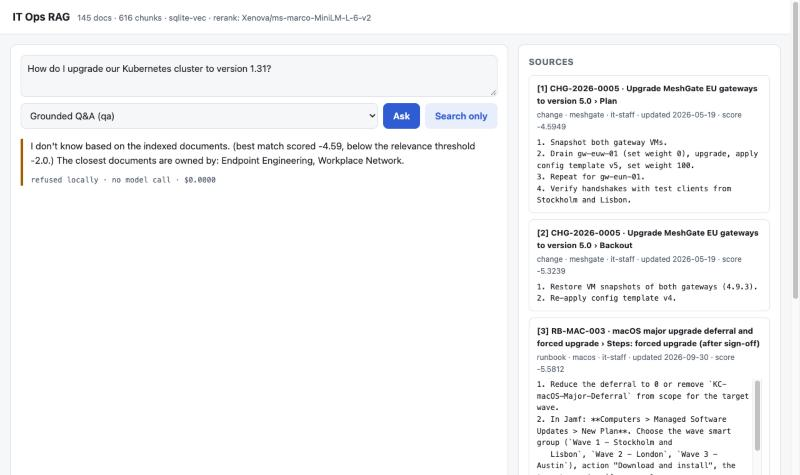
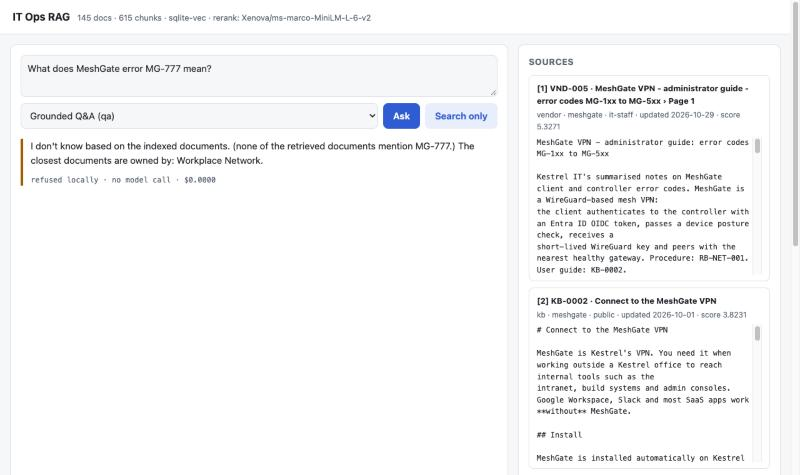
Docs: review write-up, new eval numbers, role trust, honest cost and caching notes; refreshed screenshots and GIF

diff --git a/README.md b/README.md
@@ -13,7 +13,7 @@ that finds error codes like `AADSTS53003` and `0x80180014`; local embeddings and
 > *Kestrel Cloud* (fictional people, tenants, hostnames, tickets and a fictional VPN called MeshGate). The engine is the
 > same one I run against real IT documentation; real-use configuration and live connectors live in a private repo.
 
-![Web UI: search over the demo corpus with redacted, access-tagged source chunks](docs/img/web-search.jpg)
+![Web UI: search for an Autopilot error code, showing redacted, access-tagged sources (a past ticket that matches exactly, then the runbook and vendor notes further down)](docs/img/web-search.jpg)
 
 ## What it is for
 
@@ -57,12 +57,13 @@ flowchart LR
 
     subgraph Query
         Q[Question + role] --> H[Hybrid search<br/>BM25 + vector → RRF]
-        H --> RR[Cross-encoder rerank<br/>ms-marco-MiniLM · local]
-        RR --> G{Refusal gate}
+        H --> RR[Cross-encoder rerank<br/>ms-marco-MiniLM · local<br/>+ doc-type prior, 1 hit per doc]
+        RR --> G{Refusal gate<br/>score + error-code check}
         G -- thin context --> IDK["I don't know"<br/>no API call]
-        G -- ok --> P[Prompt template<br/>+ fenced &lt;context&gt;]
+        G -- ok --> X[Small-to-big<br/>hit → section or whole doc<br/>~6k-token budget]
+        X --> P[Prompt template<br/>+ fenced &lt;context&gt;]
         P --> LLM[Claude<br/>Opus 5.5 / Haiku 5.5]
-        LLM --> V[Citation check<br/>+ optional faithfulness check]
+        LLM --> V[Citation check<br/>+ Haiku faithfulness check]
     end
 
     Sources --> L
@@ -93,11 +94,16 @@ itops-rag ask "Review this change" --prompt change_risk_review --input examples/
 itops-rag serve                                    # web UI on http://127.0.0.1:8080
 ```
 
+The web UI treats every caller as `public` unless your SSO proxy vouches for a higher role: set
+`ITOPS_RAG_ROLE_HEADER_SECRET`, and have the proxy send `X-ITOPS-Role` plus `X-ITOPS-Proxy-Secret` (and strip any
+copies the client sent). The CLI, library and MCP server use `ITOPS_RAG_DEFAULT_ROLE`.
+
 ![Terminal demo: ingest, search, a local refusal and the eval (recorded from real runs by scripts/make_demo_gif.py)](docs/img/demo.gif)
 
-When the index has nothing relevant, it says so without calling the model:
+When the index has nothing relevant, it says so without calling the model. Here the question names an error code
+that no document mentions:
 
-![Web UI: an out-of-scope question refused locally at no cost](docs/img/web-refusal.jpg)
+![Web UI: a question about an unknown error code refused locally at no cost](docs/img/web-refusal.jpg)
 
 Docker: `docker compose up --build`, then open http://localhost:8080. The image has the models baked in, so it runs
 offline.
@@ -105,7 +111,10 @@ offline.
 ## Use it from Claude Code (MCP)
 
 ```bash
-claude mcp add itops-rag -e ITOPS_RAG_INDEX_DIR="$PWD/.itops-rag/index" -- itops-rag-mcp
+claude mcp add itops-rag \
+  -e ITOPS_RAG_INDEX_DIR="$PWD/.itops-rag/index" \
+  -e ITOPS_RAG_MODEL_CACHE_DIR="$HOME/.cache/itops-rag-models" \
+  -- "$PWD/.venv/bin/itops-rag-mcp"
 ```
 
 | Tool | Cost | What it returns |
@@ -141,19 +150,34 @@ the data never is. Full example: [examples/library_usage.py](examples/library_us
 
 ## Retrieval quality
 
-Measured on the 44-question golden set ([eval/](eval/)), k = 4, with no API key. Reproduce with `itops-rag eval`.
+Measured offline (no API key) on the 65-question golden set ([eval/](eval/)): 54 answerable questions across all
+three roles, including 16 deliberately hard paraphrases, plus 11 that should be refused, 5 of them near-misses
+("Okta SAML rotation", "MG-777"). Each question is searched exactly the way `ask()` searches it (its prompt
+template's doc types and top-k), k = 4. **Primary** means the one document that should answer it (the runbook,
+KB article or standard), not just any related ticket. Reproduce with `itops-rag eval`.
 
-| Mode | hit@4 | recall@4 | MRR | Refusal accuracy | Access leaks |
-|---|---|---|---|---|---|
-| vector | 0.97 | 0.73 | 0.94 | – | 0 |
-| keyword (BM25) | 0.97 | 0.71 | 0.90 | – | 0 |
-| hybrid (RRF) | 1.00 | 0.77 | 0.94 | – | 0 |
-| **hybrid + rerank** | **1.00** | **0.77** | **0.96** | **1.00** | **0** |
+| Mode | hit@4 | MRR | primary hit@4 | primary MRR | recall@4 | ticket share | refusal accuracy | access leaks |
+|---|---|---|---|---|---|---|---|---|
+| vector | 0.94 | 0.84 | 0.93 | 0.77 | 0.69 | 0.17 | – | 0 |
+| keyword (BM25) | 0.96 | 0.80 | 0.89 | 0.72 | 0.70 | 0.18 | – | 0 |
+| hybrid (RRF) | 0.98 | 0.86 | 0.93 | 0.75 | 0.73 | 0.20 | – | 0 |
+| **hybrid + rerank** | **0.98** | **0.91** | **0.98** | **0.85** | **0.74** | **0.09** | **0.95** | **0** |
 
-Vector search alone misses an on-call checklist question and keyword search alone misses a paraphrased change
-question. Fusion catches both, and the reranker puts the right document first more often. recall@4 is capped
-because many questions have 5 to 9 relevant documents. A caveat: I wrote the golden set knowing the corpus, so read
-these as regression numbers, not a benchmark. CI fails if they drop (see `eval-gate` in the workflow).
+What moved the numbers (the [review](docs/review.md) has the experiments, including the ones that didn't help):
+
+- **Doc-type prior and one hit per document.** In this corpus 82 of 145 documents are tickets, and they used to
+  crowd runbooks out of the top 4. Adding +2 to the rerank score of authoritative doc types (for ordering only)
+  raised primary hit@4 from 0.93 to 0.98 and primary MRR from 0.80 to 0.85.
+- **Hybrid beats either half.** Vector search misses error-code questions and keyword search misses paraphrases.
+- **The free gate refuses 8 of 11 unanswerable questions**, including unknown error codes (the question names a code
+  no retrieved document mentions). The 3 near-misses it lets through score as high as real questions, so Claude's
+  own "I don't know" rule is the second line of defence.
+- **Kept as is, after measuring alternatives:** the embedding model (bge-small, arctic-embed, nomic and bge-base were
+  no better after reranking) and the reranker (bge-reranker-base was slower and worse; ms-marco-L12 was twice the
+  latency).
+
+Caveat: the questions were written knowing the corpus. Treat these as regression numbers, not a benchmark. CI fails
+if primary hit, MRR or refusal accuracy drop (see `eval-gate` in the workflow).
 
 ## Safety and cost controls
 
@@ -162,12 +186,14 @@ these as regression numbers, not a benchmark. CI fails if they drop (see `eval-g
 | Citations required | Every claim cites `[n]`. Citations are checked against the chunks actually supplied; uncited or invalid citations raise warnings. |
 | "I don't know" | If the best rerank score is below a threshold, it refuses **locally, with no API call**, and names the owning team of the nearest docs. |
 | Retrieved text is data | Chunks are fenced in `<context>`, tag-like text is neutralised, injection patterns are flagged `suspicious="true"`, and the system prompt says to ignore and report them. Tested with planted attacks in `data/demo/kestrel-cloud/adversarial/`. |
-| Redaction at ingest | API keys, tokens, JWTs, private keys, passwords, emails and phone numbers are masked before embedding (plus IPs in tickets). People fields are dropped from ticket exports. |
-| Access tags | `public` < `it-staff` < `security` per document, enforced inside both the keyword and the vector query. |
-| Cost | Embeddings, search, rerank and eval are local and free. Prompt caching, Haiku for cheap steps, a per-answer cost line, a JSONL cost ledger, and a monthly budget cap that blocks calls. |
+| Redaction at ingest | AWS, GitHub, Slack, Anthropic, Azure and Google keys, `sk-`/`pk-` keys, JWTs, Bearer/Basic auth headers, private keys (even truncated ones), `name = value` secrets (`DB_PASSWORD`, `aws_secret_access_key`, quoted values), emails and phone numbers are masked before embedding, plus IPs in tickets. People fields are dropped from ticket exports. A test ingests the adversarial fixtures and asserts that no planted secret survives. |
+| Access tags | `public` < `it-staff` < `security` per document, enforced inside both the keyword and the vector query. Documents with no tag default to `it-staff`, not `public`. The web UI is `public` unless a proxy-verified role header says otherwise. |
+| Cost | Embeddings, search, rerank, refusals and eval are local and free. Haiku 5.5 runs the cheap steps (triage, policy checks, the faithfulness check at about $0.0002), and every call is logged with its cost against a monthly budget cap that blocks calls. Unknown or fallback models are charged at the highest listed price, so the cap errs on the safe side. Prompt caching is wired but rarely pays here: the system prompt (~330 tokens) is under the 512-token minimum, and every question has different context. |
 | Model safety | Server-side fallbacks (`fallbacks: "default"`) are on for Opus, so a safety-classifier decline is retried in the same call. Turn it off with `ITOPS_RAG_SERVER_FALLBACKS=false`. |
 
-Known limit: regexes can't find personal names in free text. Loaders drop known people fields instead.
+Known limits: regexes can't find personal names in free text (loaders drop known people fields instead), and a
+determined attacker can phrase an injection the heuristics miss. The fencing and system rules still apply, but treat
+indexed content as untrusted.
 
 ## Repository layout
 
@@ -190,7 +216,7 @@ Known limit: regexes can't find personal names in free text. Loaders drop known 
 
 ```bash
 pip install -e ".[all]" --group dev
-pytest                       # 59 tests, offline
+pytest                       # 76 tests, offline
 ruff check . && ruff format --check . && mypy
 itops-rag eval --baseline eval/baseline.json
 ```

diff --git a/docs/review.md b/docs/review.md
@@ -1,0 +1,46 @@
+# Pre-release review (November 2026)
+
+Before the first public release, two reviewers who had not built the project went through it. One fact-checked the
+code and every claim in the docs. The other reviewed the retrieval architecture and measured alternatives. This page
+records what they found and what changed, including ideas that were tested and rejected.
+
+## Fact-check: bugs found and fixed
+
+| Finding | Severity | Fix |
+|---|---|---|
+| `ticket_triage` and `change_risk_review` searched only the short question ("Triage this"), so the pasted ticket or change plan never reached retrieval. The triage example was refused, and the change review retrieved unrelated docs. | Critical | Templates with pasted input now search on the input. Tested. |
+| One SQLite connection was shared across FastAPI worker threads. 148 of 3,000 concurrent searches failed. | Critical | Every index operation takes a lock, and lazy start-up in the web and MCP servers is locked too. A 600-search, 16-thread test now passes. |
+| Redaction missed `aws_secret_access_key = …` (because `_` counts as a word character), quoted values, Anthropic and Azure keys, Basic auth, unsigned JWTs, keys without an END line, and national phone numbers. The keep-list matched `security@` at any domain. | Critical | Patterns rewritten, keep-list anchored to the domain. A test ingests the adversarial fixtures and asserts no planted secret survives. |
+| The web UI trusted an `X-ITOPS-Role` header from any client. | Important | Requests default to `public`. The header is accepted only with a proxy shared secret, and is otherwise ignored or rejected with a 403. |
+| Files without an access tag became `public`. | Important | Fail closed: the default is `it-staff`, and it is configurable. |
+| `--prune` deleted documents from other folders in the same index, and documents whose file failed to load. | Important | Pruning is scoped to the ingested folder, and documents from failed files are kept. |
+| Changing chunk size or redaction patterns didn't re-chunk: documents were skipped as "unchanged". | Important | An ingest fingerprint (chunker, size, overlap, redaction version) is folded into each stored hash. |
+| The refusal gate without the reranker almost never refused. | Important | It now uses vector similarity only. |
+| "Prompt caching" was listed as a cost control, but the system prompt is below the 512-token minimum. | Claim | The claim is removed (see the cost row in the README). |
+| Fallback-served answers were priced at $0. | Important | Fallback models are priced, and unknown models are charged at the highest listed price. |
+| Smaller items: list settings from env crashed unless given as JSON, chunk overlap was dropped near the size limit, `[1-3]` citation ranges were ignored, the SDK pin was too low for `fallbacks`, and the `[web]` text in `--help` was swallowed by Rich markup. | Minor | All fixed. |
+
+## Architecture: measured changes
+
+All retrieval was measured offline on the golden set, extended with 21 harder questions (paraphrases and near-miss
+unanswerables). "Primary" means the single document that should answer the question.
+
+| Change | Result | Kept? |
+|---|---|---|
+| Doc-type prior (+2 to the rerank score of non-ticket docs, for ordering only) and 1 hit per document | Primary hit@4 0.93 → 0.98, primary MRR 0.80 → 0.85, recall 0.68 → 0.74, ticket share 0.14 → 0.09 | Yes |
+| Evaluate on the same path `ask()` uses (template doc types and top-k), and add primary-doc metrics | The old eval overstated recall | Yes |
+| Small-to-big context: expand each hit to its section, or the whole doc under 4k chars; ~6k-token budget; tickets stay as chunks | Heading-split chunks averaged ~330 chars, and step lists were split from their "see step 3" references. The context was ~600 tokens; it is now complete sections. | Yes |
+| Refuse when the question names an error code that no retrieved doc mentions | Refuses "MG-777" and passes every answerable code question | Yes |
+| Faithfulness check on Haiku by default | About $0.0002 per answer | Yes |
+| Other embedding models: bge-small, arctic-embed-s, nomic-v1.5, bge-base | No better after reranking (primary hit 0.75–0.81 vs 0.81 on the hard set), and 2–8× slower to build | No: kept all-MiniLM-L6-v2 |
+| Other rerankers: ms-marco-L12, jina tiny/turbo, bge-reranker-base | L12 and jina-turbo were slightly better on hard questions at 2× latency. bge-base was 7× slower and worse. | No: kept ms-marco-L6 |
+| Candidate pool 20/30/50, RRF k 20/60, FTS5 column weights, contextual chunk headers, 500 or 1200-char chunks, a synonym glossary | Neutral, mixed or worse | No |
+
+## Still open
+
+- One hard question ("Who is on call for Jamf problems?") misses its escalation-matrix table. Splitting tables by
+  row is untested.
+- Near-miss unanswerables (another vendor's SAML rotation, a Chromebook in Intune) score as high as real questions.
+  Only the model's "I don't know" catches them. An answer-level eval (`itops-rag eval --llm`) needs an API key and
+  hasn't been run yet.
+- Triage could return structured JSON (`output_config.format`) instead of fixed text lines.

diff --git a/docs/architecture.md b/docs/architecture.md
@@ -44,14 +44,15 @@ sequenceDiagram
     I->>K: top 30, filtered by access, doc type, system
     I->>V: top 30, same filters
     I->>I: Reciprocal Rank Fusion (keyword weight ×1.5 if the query has an error code or ticket key)
-    I->>X: rerank the 30 → best k (max 2 chunks per doc)
-    X->>G: best score
+    I->>X: rerank the 30, add the doc-type prior for ordering → best k (1 hit per doc)
+    X->>G: best raw score; error codes in the question present in the hits?
     alt score < threshold
         G-->>U: "I don't know…" + owning team ($0)
     else enough context
-        G->>M: cached system rules + fenced <context> + task + output format
+        G->>I: expand each hit to its section, or the whole doc if short (~6k-token budget)
+        I->>M: system rules + fenced <context> + task + output format
         M-->>I: answer with [n] citations
-        I->>I: validate citations, flag injection, (optional) Haiku faithfulness check
+        I->>I: validate citations, flag injection, Haiku faithfulness check
         I-->>U: answer, sources, warnings, cost
     end
 ```
@@ -75,25 +76,32 @@ sequenceDiagram
 
 ## Design decisions
 
-The short version is below. The longer records are in [adr/](adr/).
+The short version is below. The longer records are in [adr/](adr/), and the measurements behind the retrieval settings
+are in [review.md](review.md).
 
 1. **Keyword search lives in SQLite FTS5, whatever the vector store.** Chroma has no BM25. Keeping keyword
    search, metadata and access filters in one SQLite file means the vector store is a plug-in, and the access
-   filter runs in the same query as the search, not afterwards in Python.
+   filter is applied inside retrieval, never by the caller.
 2. **RRF, not score blending.** BM25 scores and cosine similarities aren't on the same scale. RRF only uses ranks,
    so it needs no tuning per corpus. Queries that contain an exact identifier boost the keyword list.
-3. **A cross-encoder reranker, on by default.** About 200 ms per query on a laptop CPU, $0, and the biggest single
+3. **A cross-encoder reranker, on by default.** About 230 ms per query on a laptop CPU, $0, and the biggest single
    precision gain. It also provides the score the refusal gate uses.
-4. **Refuse before the model, not only in the prompt.** The prompt still says "I don't know", but the gate stops
-   obviously thin context from costing anything, and it makes refusals testable offline.
-5. **Redact at ingest, not at answer time.** If a secret never reaches the index, it can't leak through any
+4. **A doc-type prior, for ordering only.** Help desks have far more tickets than runbooks, and tickets that repeat a
+   symptom outrank the runbook that fixes it. A +2 boost for authoritative types (overridable per template) fixes
+   the ordering. The gate still sees the raw score.
+5. **Small to big.** Small, heading-aligned chunks are good for matching, but the model needs the whole procedure.
+   Each hit is expanded to its section, or the whole document when it is short, within a fixed budget.
+6. **Refuse before the model, not only in the prompt.** The prompt still says "I don't know", but the gate stops
+   thin context and unknown error codes from costing anything, and it makes refusals testable offline.
+7. **Redact at ingest, not at answer time.** If a secret never reaches the index, it can't leak through any
    interface, including `search_kb` over MCP.
-6. **Role is set by the deployment, not the caller.** The web UI reads a header from a trusted proxy, the MCP server
-   uses its start-up setting, and the Slack bot maps channels. No tool argument can raise access.
-7. **One engine, many indexes.** The manifest pins the embedding model, dimension and store. Opening an index with a
-   different model fails loudly instead of returning nonsense.
-8. **`get_context` over MCP.** An agent that already runs on Claude gets grounded, fenced context and answers it
-   itself. That is the cheapest way for agents to use the index.
+8. **Role is set by the deployment, not the caller.** The web UI accepts a role only from a proxy holding a shared
+   secret (otherwise it is `public`), the MCP server uses its start-up setting, and the Slack bot maps channels.
+9. **One engine, many indexes.** The manifest pins the embedding model, dimension, store and reranker. An ingest
+   fingerprint (chunker, chunk size, redaction version) is folded into every stored hash, so a settings change
+   re-processes documents instead of silently skipping them.
+10. **`get_context` over MCP.** An agent that already runs on Claude gets grounded, fenced context and answers it
+    itself. That is the cheapest way for agents to use the index.
 
 ## Scaling notes
 

diff --git a/docs/operations.md b/docs/operations.md
@@ -31,21 +31,27 @@ these loaders read, so the public engine has no credentials code in it.
 |---|---|
 | Refuses questions it should answer | Lower `ITOPS_RAG_MIN_RERANK_SCORE` (default -2.0), then re-run `itops-rag eval` |
 | Answers questions it should refuse | Raise it |
-| One long doc crowds out others | `ITOPS_RAG_MAX_CHUNKS_PER_DOC` (default 2) |
+| One long doc crowds out others | `ITOPS_RAG_MAX_CHUNKS_PER_DOC` (default 1) |
+| Tickets crowd out runbooks (or the reverse) | `ITOPS_RAG_DOC_TYPE_BOOST` (JSON, default +2 for non-ticket types), or `doc_type_boost` in a template |
+| Answers miss steps from long runbooks | `ITOPS_RAG_CONTEXT_CHAR_BUDGET` (default 24000) and `ITOPS_RAG_EXPAND_WHOLE_DOC_CHARS` (default 4000) |
 | Error-code lookups miss | Check `itops-rag search --mode keyword "<code>"`; codes need to be in the text, not only in images |
 | Answers too long or short | Edit the template's `output` block; effort barely changes length |
 | Cost creeping up | `ITOPS_RAG_EFFORT=low`, move templates to `tier: fast`, or point agents at `get_context` over MCP |
 
 ## Costs (Opus 5.5 at $4 / $20 per million tokens)
 
-A typical `troubleshoot` answer reads about 3–4k input tokens (system rules + 6 chunks + task) and writes 300–600,
-which comes to roughly **$0.02–0.03 per answer**. The same question through `ticket_triage` on Haiku costs a fraction
+A typical `troubleshoot` answer reads about 4–7k input tokens (system rules + expanded sections + task) and generates
+a few hundred to a few thousand output tokens, including thinking (Opus 5.5 always thinks; `effort: medium` keeps it
+moderate). That is roughly **$0.03–0.08 per answer**, plus about $0.0002 for the Haiku faithfulness check. These are
+estimates, not measurements: check the cost line on your first answers. The same question through `ticket_triage` on Haiku costs a fraction
 of a cent. Refusals, searches, ingest and evals cost nothing. Every call is logged to `.itops-rag/costs.jsonl`, and
 calls stop once `ITOPS_RAG_MONTHLY_BUDGET_USD` is reached.
 
 ## Security checklist before real data
 
-- [ ] Run behind SSO (the web app has no auth of its own) and set `X-ITOPS-Role` from IdP groups at the proxy.
+- [ ] Run behind SSO (the web app has no auth of its own). Set `ITOPS_RAG_ROLE_HEADER_SECRET`; have the proxy send
+      `X-ITOPS-Role` (from IdP groups) and `X-ITOPS-Proxy-Secret`, and strip any client-sent copies. Without the
+      secret, every web caller is `public`.
 - [ ] Give the MCP server the lowest role its users need. Start one server per role if needed.
 - [ ] Keep the index folder on encrypted disk, and exclude it from backups that leave your boundary.
 - [ ] Check `itops-rag ingest` redaction counts on the first run. Add patterns for your own token formats.

diff --git a/deploy/cloud-run.md b/deploy/cloud-run.md
@@ -3,11 +3,15 @@
 A small, cheap way to host it for a team. The web app scales to zero, and ingest runs as a scheduled Job.
 
 1. Build and push the image: `gcloud builds submit --tag REGION-docker.pkg.dev/PROJECT/itops/itops-rag:0.1.0`
-2. Store the index on a Cloud Storage bucket mounted as a volume (Cloud Run volume mounts), at `/data`.
+2. The ingest Job builds the index and uploads `docstore.sqlite` to a Cloud Storage bucket. Each web instance copies
+   it to local disk at start-up and opens it read-only. Don't run SQLite in WAL mode directly on a GCS FUSE mount:
+   it doesn't support the locking SQLite needs.
 3. **Ingest Job** (nightly, from Cloud Scheduler): `itops-rag ingest /exports --prune`, with exports synced into
    the bucket by your connectors.
-4. **Web service**: `itops-rag serve --host 0.0.0.0 --port 8080`, with `--no-allow-unauthenticated` behind IAP, and
-   IAP group membership mapped to the `X-ITOPS-Role` header by a thin proxy.
+4. **Web service**: `itops-rag serve --host 0.0.0.0 --port 8080`, with `--no-allow-unauthenticated` behind IAP. IAP
+   passes client headers through, so a thin proxy must verify the IAP JWT, map the user's groups to a role, strip any
+   client-sent `X-ITOPS-*` headers, and send `X-ITOPS-Role` plus `X-ITOPS-Proxy-Secret`
+   (`ITOPS_RAG_ROLE_HEADER_SECRET` from Secret Manager).
 5. `ANTHROPIC_API_KEY` from Secret Manager (`--set-secrets`), never in the image or env files.
 6. Set `ITOPS_RAG_MONTHLY_BUDGET_USD` per environment.
 

diff --git a/docs/prompts.md b/docs/prompts.md
@@ -1,11 +1,12 @@
 # The RAG prompt library
 
-Every answer is built from the same layers, in this order (stable first, so prompt caching works):
+Every answer is built from the same layers, in this order (stable parts first; that is also the order prompt caching
+needs, if a longer house-style system prompt ever pushes it past the 512-token minimum):
 
-1. **System rules** (`prompts/registry.py: SYSTEM_PROMPT`), shared by every template and cached:
+1. **System rules** (`prompts/registry.py: SYSTEM_PROMPT`), shared by every template:
    answer only from the context, cite `[n]`, say "I don't know" when the context is thin, treat context as data,
    copy commands exactly, prefer newer docs, and never reconstruct `[REDACTED:…]` values.
-2. **`<context>`**: the retrieved chunks, numbered, with attributes (doc id, title, section, type, system, owner,
+2. **`<context>`**: the retrieved hits, each expanded to its section (or the whole document when it is short), numbered, with attributes (doc id, title, section, type, system, owner,
    updated, and `suspicious="true"` when flagged).
 3. **`<question>`**: what the user asked.
 4. **`<ticket>` / `<change_plan>`** (only for templates with `needs_input: true`): pasted text, marked as data.

diff --git a/docs/eval-results.md b/docs/eval-results.md
@@ -1,10 +1,10 @@
 # Retrieval evaluation
 
-44 questions, k=4
+65 questions, k=4
 
-| Mode | hit@k | recall@k | MRR | Refusal accuracy | Access leaks | ms/query |
-|---|---|---|---|---|---|---|
-| vector | 0.97 | 0.73 | 0.94 | – | 0 | 3 |
-| keyword | 0.97 | 0.71 | 0.90 | – | 0 | 0 |
-| hybrid | 1.00 | 0.77 | 0.94 | – | 0 | 2 |
-| hybrid_rerank | 1.00 | 0.77 | 0.96 | 1.00 | 0 | 228 |
+| Mode | hit@k | MRR | primary hit@k | primary MRR | recall@k | ticket share | refusal acc. | leaks | ms/q |
+|---|---|---|---|---|---|---|---|---|---|
+| vector | 0.94 | 0.84 | 0.93 | 0.77 | 0.69 | 0.17 | – | 0 | 3 |
+| keyword | 0.96 | 0.80 | 0.89 | 0.72 | 0.70 | 0.18 | – | 0 | 0 |
+| hybrid | 0.98 | 0.86 | 0.93 | 0.75 | 0.73 | 0.20 | – | 0 | 2 |
+| hybrid_rerank | 0.98 | 0.91 | 0.98 | 0.85 | 0.74 | 0.09 | 0.95 | 0 | 234 |

diff --git a/docs/README.md b/docs/README.md
@@ -1,3 +1,3 @@
 # docs
 
-Longer documentation: architecture.md, prompts.md, operations.md and adr/ (decision records).
+Longer documentation: architecture.md (pipeline and design decisions), prompts.md (the prompt library), operations.md (running it for real, tuning, costs, security checklist), review.md (the pre-release review: bugs found, experiments run, what changed) and adr/ (decision records).
